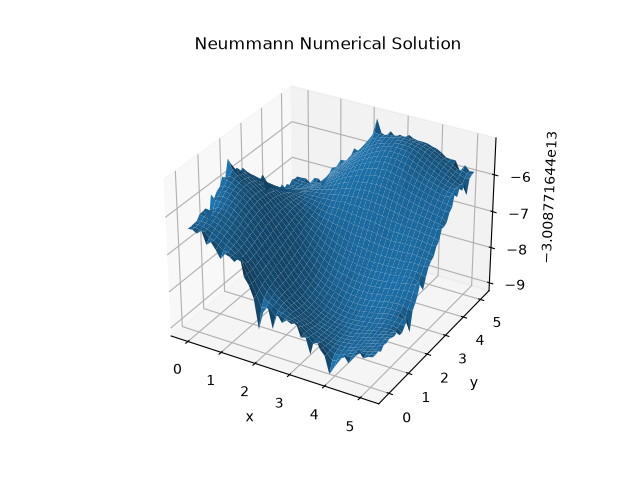
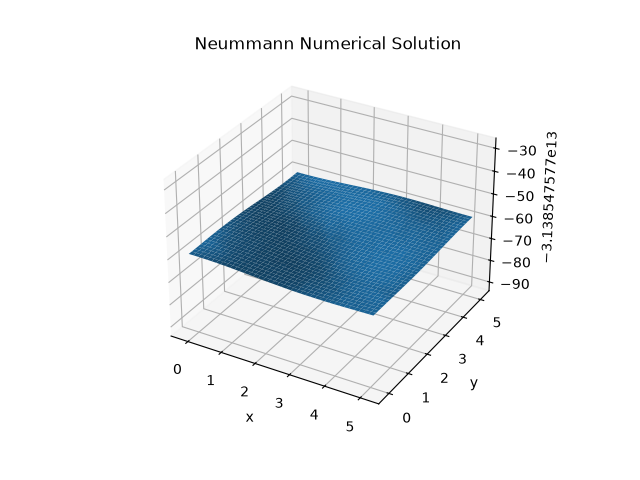
Updated code to make troubleshooting error convergence issues easier.

diff --git a/Scripts/problem_0_4.py b/Scripts/problem_0_4.py
@@ -123,8 +123,8 @@ def main():
     ax2.set_title("Exact Solution")
     plt.savefig("Images\\problem4_2.png")
 
-    num_trials = 5
-    meshes = np.floor(np.logspace(1, 3, num_trials)).astype(int)
+    num_trials = 8
+    meshes = np.floor(np.logspace(1, 4, num_trials)).astype(int)
     L_2 = np.zeros(num_trials)
     L_inf = np.zeros(num_trials)
     for i in range(num_trials):
@@ -146,7 +146,6 @@ def main():
     ax4.set_ylabel("y")
     ax4.set_title("Neummann Numerical Solution")
     plt.savefig("Images\\problem4_4.png")
-
 
 if __name__ == "__main__":
     main()
